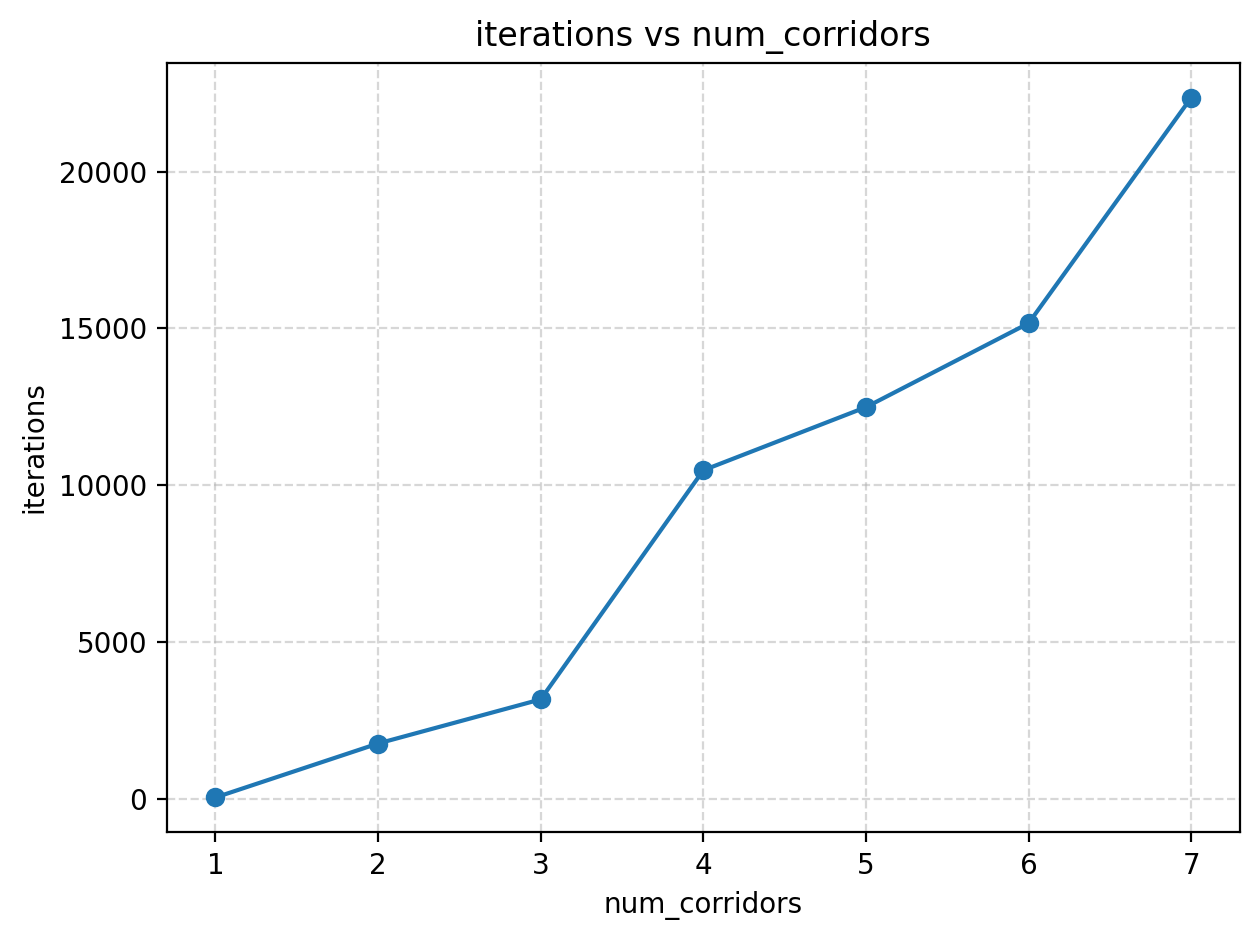
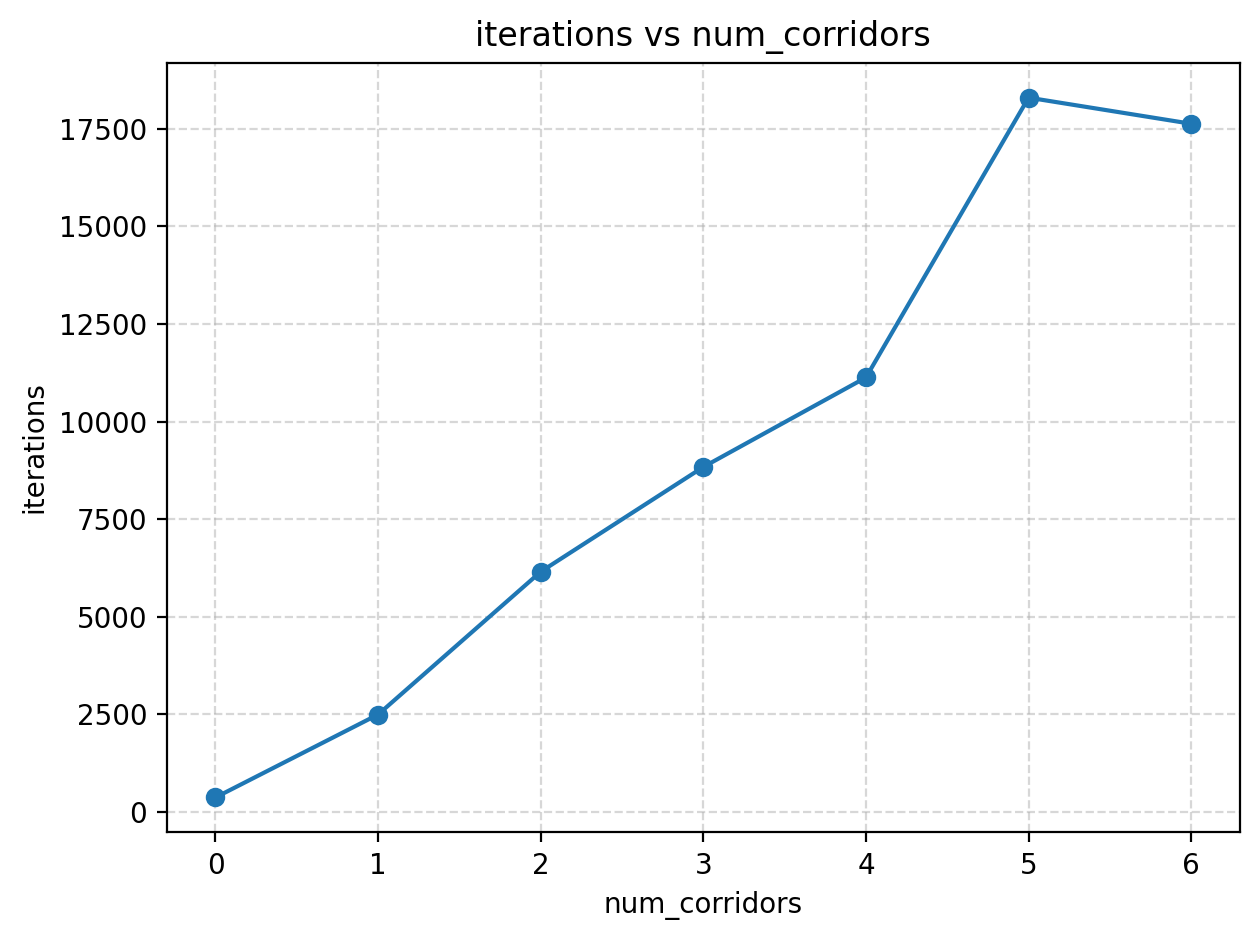
eh

diff --git a/space_complexity_test.py b/space_complexity_test.py
@@ -6,7 +6,7 @@ from pathlib import Path
 import argparse
 import yaml
 
-def plot_metrics(data: dict, outdir: str = "outputs/"):
+def plot_metrics(data: dict, outdir: str = "outputs/space_complexity_test"):
     """
     Plots each metric in `data` (except 'num_corridors') vs 'num_corridors'
     and saves figures as PNG (and PDF) in `outdir`.
@@ -81,7 +81,7 @@ def main():
         'path_size': [],
         'num_corridors': [],
     }
-    num_corridors = 1
+    num_corridors = 0
     for env in envs:
         with open(env, 'r') as f:
             config = yaml.safe_load(f)
